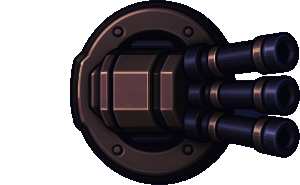
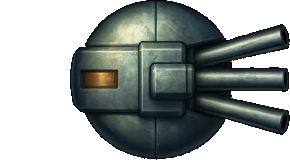
another commit

diff --git a/src/core/Bullet.js b/src/core/Bullet.js
@@ -498,7 +498,7 @@ export class Bullet extends GameObject {
     afterVisible: (that) => {
       const muzzleFlash = that.scene.add.particles(that.x, that.y, 'bullet-texture', {
         speed: { min: 200, max: 400 },
-        lifespan: 100,
+        lifespan: 50,
         scale: { start: 0.2, end: 0 },
         tint: [0xffff00, 0xff5500],
         blendMode: 'ADD'
@@ -508,9 +508,10 @@ export class Bullet extends GameObject {
 
     afterHit: (that, enemy) => {
       const impactParticles = that.scene.add.particles(that.x, that.y, 'bullet-texture', {
-        speed: { min: 50, max: 200 },
+        speed: { min: 100, max: 200 },
         angle: { min: 0, max: 360 },
-        lifespan: 150,
+        lifespan: 100,
+        frequency: 30,
         scale: { start: 0.2, end: 0 },
         tint: [0xffff00, 0xff5500],
         blendMode: 'ADD'
@@ -536,6 +537,7 @@ export class Bullet extends GameObject {
         speed: { min: 100, max: 200 },
         angle: { min: 0, max: 360 },
         lifespan: 300,
+        frequency: 30,
         scale: { start: 0.3, end: 0 },
         tint: [0x00ffff, 0x5500ff],
         blendMode: 'ADD'

diff --git a/src/core/Game.js b/src/core/Game.js
@@ -50,6 +50,7 @@ export class Game extends Phaser.Scene {
 
     this.load.image('towerTexture', 'assets/tower-10.png');
     this.load.image('towerTriple', 'assets/tower-12.png');
+    this.load.image('towerPlasma', 'assets/tower-13.png');
 
     Bullet.initTextures(this);
     Enemy.initTextures(this);
@@ -58,7 +59,7 @@ export class Game extends Phaser.Scene {
 
   create() {
     this.audioManager.setup();
-    //this.audioManager.play('music1');
+    this.audioManager.play('music1');
     this.milkyWay = new GameObject(this,this.physics.add.group(), this.grid.cols * this.buttonTowerSize/3, this.grid.rows * this.buttonTowerSize/2, 'milkyway', this.grid.rows * this.buttonTowerSize, this.grid.cols * this.buttonTowerSize );
     this.mainTowers = this.physics.add.group();
     this.enemies = this.physics.add.group();

diff --git a/src/core/Tower.js b/src/core/Tower.js
@@ -100,12 +100,12 @@ export class Tower extends GameObject {
 
   static energyOrbTower = {
     heightRatio: 2,
-    widthRatio: 3.3,
+    widthRatio: 2.4,
     price: 250,
     damage: 2000,
     rangeUnits: 18,
     attackInterval: 500,
-    texture: 'towerTexture',
+    texture: 'towerPlasma',
     description: 'Common Tower',
     sound: { key: AudioManager.sounds.shoot, volume: 1 },
     executeOnUpdate: (that, time) => {
@@ -167,8 +167,8 @@ export class Tower extends GameObject {
   }
 
   static tripleShotTower = {
-    heightRatio: 2,
-    widthRatio: 3.3,
+    heightRatio: 1.8,
+    widthRatio: 3,
     price: 250,
     damage: 50,
     rangeUnits: 8,

diff --git a/src/core/TowerMenuContainer.js b/src/core/TowerMenuContainer.js
@@ -171,7 +171,7 @@ export class TowerMenuContainer extends Phaser.GameObjects.Container {
     let x = this.x + this.scene.unitSize * 8;
     let y = this.scene.unitSize * 83
     this.enemy = new Enemy(this.scene, this.enemies, x, y, this.scene.unitSize, this.scene.unitSize, Enemy.dummyEnemy);
-    //this.enemy.setPath([{x:x,y:y},{x:x+this.scene.unitSize*10,y:y}]);
+    this.enemy.setPath([{x:x+this.scene.unitSize*20,y:y},{x:x+this.scene.unitSize*10,y:y},{x:x,y:y}]);
     this.buttonTower.createTower(false);
   }
 
